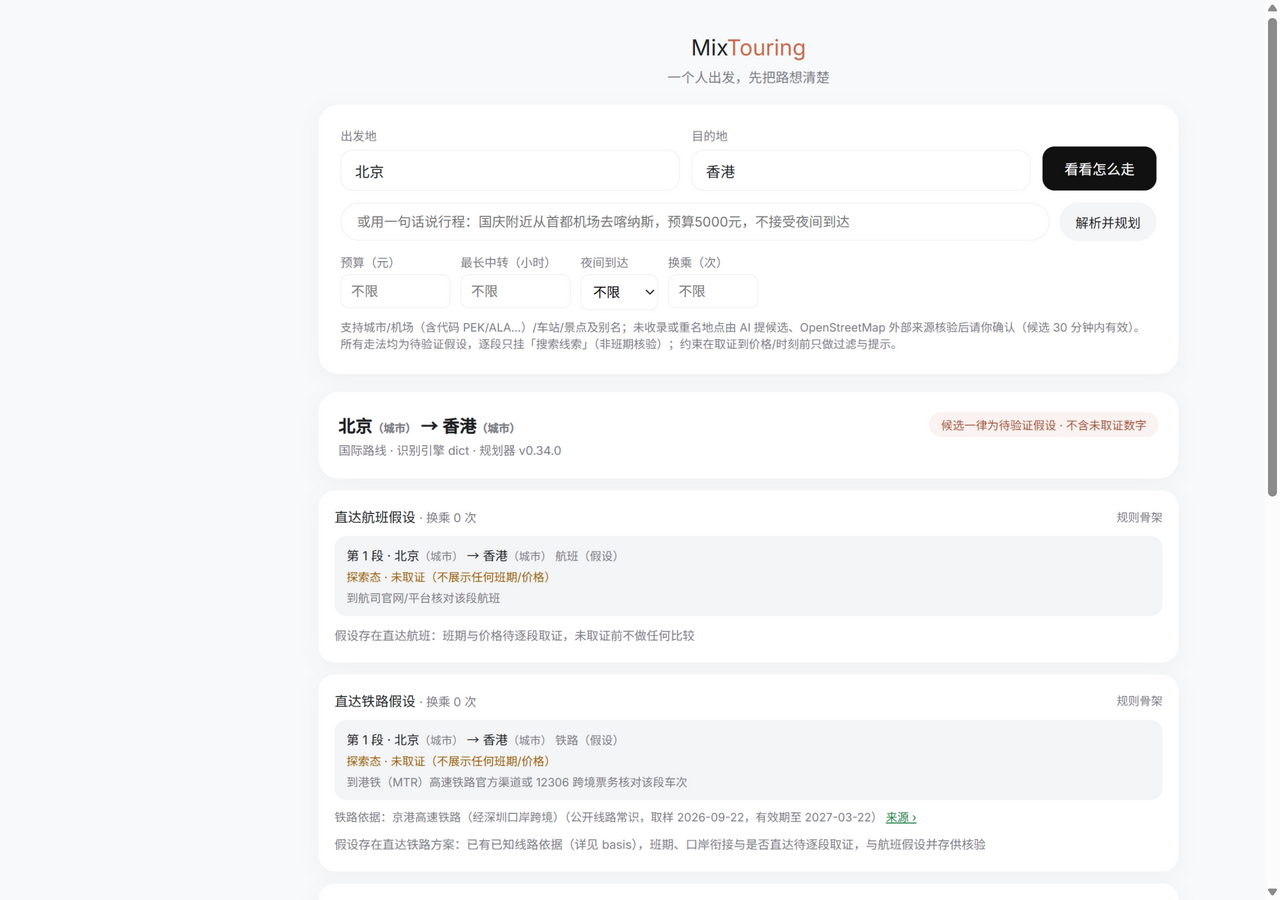
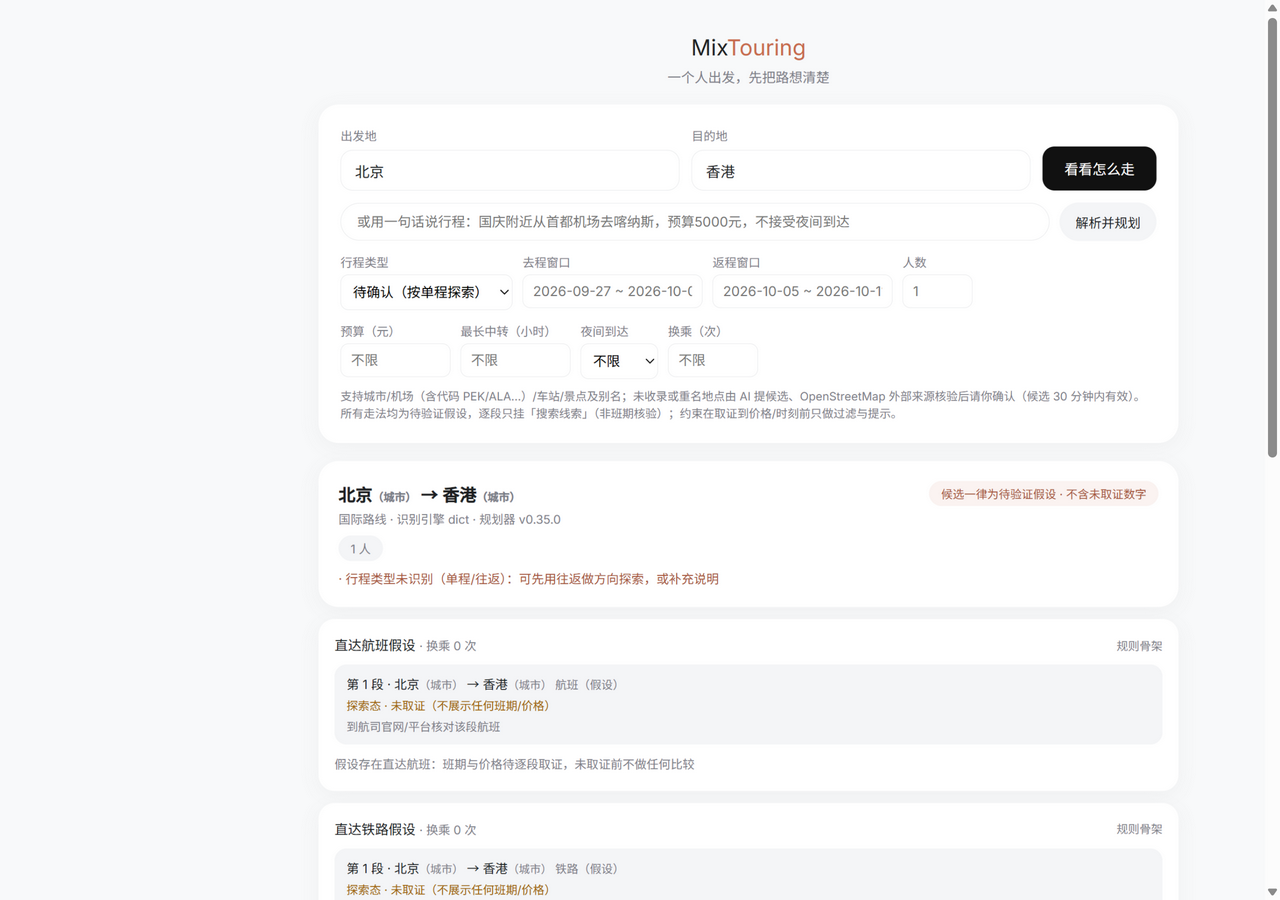
v0.35.0 十轮评审收口修复卡：往返/日期/人数意图恢复（extractIntentFields 复用+返程日期规则+数字人数+显式字段覆盖，样本层改用 intent 不再固定 pending）、重名候选带行政层级 detail 且无默认选中（须显式选择）、走廊证据语义修正（valid_for→review_by 复核期限、K9795 降为历史班期样例分级）

diff --git a/mixtouring-hifi/pages/trip.html b/mixtouring-hifi/pages/trip.html
@@ -64,6 +64,20 @@
         <button id="btnParse" style="background:var(--mixtouring-muted);color:var(--mixtouring-foreground);border:none;border-radius:9999px;padding:10px 16px;font-size:13px;font-family:inherit;cursor:pointer;flex-shrink:0;">解析并规划</button>
       </div>
 
+      <!-- 行程信息（v0.35.0 十轮 P0：往返/日期/人数不回退；字段优先于一句话提取） -->
+      <div style="display:flex;gap:10px;flex-wrap:wrap;margin-top:12px;">
+        <label style="font-size:12px;color:var(--mixtouring-muted-foreground);">行程类型
+          <select id="tvType" style="display:block;margin-top:4px;border:0.5px solid var(--mixtouring-border);border-radius:8px;padding:8px;font-size:13.5px;font-family:inherit;background:#fff;">
+            <option value="">待确认（按单程探索）</option>
+            <option value="round_trip">往返</option>
+            <option value="one_way">单程</option>
+          </select>
+        </label>
+        <label style="font-size:12px;color:var(--mixtouring-muted-foreground);">去程窗口 <input id="tvOut" type="text" placeholder="2026-09-27 ~ 2026-10-03" style="display:block;margin-top:4px;width:180px;box-sizing:border-box;border:0.5px solid var(--mixtouring-border);border-radius:8px;padding:8px 10px;font-size:13.5px;font-family:inherit;" /></label>
+        <label style="font-size:12px;color:var(--mixtouring-muted-foreground);">返程窗口 <input id="tvRet" type="text" placeholder="2026-10-05 ~ 2026-10-11" style="display:block;margin-top:4px;width:180px;box-sizing:border-box;border:0.5px solid var(--mixtouring-border);border-radius:8px;padding:8px 10px;font-size:13.5px;font-family:inherit;" /></label>
+        <label style="font-size:12px;color:var(--mixtouring-muted-foreground);">人数 <input id="tvCount" type="number" min="1" max="9" placeholder="1" style="display:block;margin-top:4px;width:70px;box-sizing:border-box;border:0.5px solid var(--mixtouring-border);border-radius:8px;padding:8px 10px;font-size:13.5px;font-family:inherit;" /></label>
+      </div>
+
       <!-- 约束行（v0.34.0 统一主入口：四类约束随主查询提交；字段优先于一句话表述） -->
       <div style="display:flex;gap:10px;flex-wrap:wrap;margin-top:12px;">
         <label style="font-size:12px;color:var(--mixtouring-muted-foreground);">预算（元） <input id="cnBudget" type="number" min="100" step="100" placeholder="不限" style="display:block;margin-top:4px;width:110px;box-sizing:border-box;border:0.5px solid var(--mixtouring-border);border-radius:8px;padding:8px 10px;font-size:13.5px;font-family:inherit;" /></label>
@@ -116,8 +130,23 @@
       return constraints;
     }
 
+    /* 行程信息字段（v0.35.0 P0：显式字段优先于文本提取，往返/日期/人数经消歧与重新规划不回退） */
+    function collectTravel() {
+      var travel = {};
+      var type = document.getElementById('tvType').value;
+      var out = document.getElementById('tvOut').value.trim();
+      var ret = document.getElementById('tvRet').value.trim();
+      var count = document.getElementById('tvCount').value;
+      if (type) travel.trip_type = type;
+      if (out) travel.outbound_window = out;
+      if (ret) travel.return_window = ret;
+      if (count !== '') travel.traveler_count = Number(count);
+      return travel;
+    }
+
     function requestPlan(confirmed) {
       var body = Object.assign({}, lastRequest, confirmed && Object.keys(confirmed).length ? { confirmed_places: confirmed } : {});
+      body.travel = collectTravel();
       resultArea.innerHTML = '<div style="text-align:center;padding:30px;color:var(--mixtouring-muted-foreground);font-size:13.5px;">正在规划（含地点识别与外部来源核验，稍等）…</div>';
       post('/api/anywhere/plan', body).then(function (res) {
         if (res.code !== 0) { resultArea.innerHTML = ''; MT.toast(res.msg || '规划失败'); return; }
@@ -152,14 +181,16 @@
         var list = (data.place_candidates && data.place_candidates[ep]) || [];
         if (!list.length) return;
         html += '<div style="margin-top:12px;padding:14px 16px;border-radius:14px;background:rgba(30,127,69,0.06);border:0.5px solid rgba(30,127,69,0.25);">';
-        html += '<div style="font-size:13px;">新地点待确认——' + (ep === 'origin' ? '出发地' : '目的地') + '（候选均经 OpenStreetMap 核验，重名请选对；30 分钟内有效）</div>';
-        list.forEach(function (c, i) {
+        html += '<div style="font-size:13px;">新地点待确认——' + (ep === 'origin' ? '出发地' : '目的地') + '（候选均经 OpenStreetMap 核验；重名请按行政层级与来源选对；30 分钟内有效）</div>';
+        list.forEach(function (c) {
           html += '<label style="display:flex;align-items:flex-start;gap:8px;margin-top:10px;cursor:pointer;">' +
-            '<input type="radio" name="awc-' + ep + '" value="' + MT.esc(c.candidate_id || '') + '"' + (i === 0 ? ' checked' : '') + ' style="margin-top:3px;" />' +
+            '<input type="radio" name="awc-' + ep + '" value="' + MT.esc(c.candidate_id || '') + '" style="margin-top:3px;" />' +
             '<span style="font-size:12.5px;line-height:1.6;">' + placeLabel(c.name, c.kind) +
             ' <span style="color:var(--mixtouring-muted-foreground);">· ' + MT.esc(c.country || '') + (c.country_name ? '（' + MT.esc(c.country_name) + '）' : '') + '</span>' +
             (c.source_url && /^https:/.test(c.source_url) ? ' <a href="' + MT.esc(c.source_url) + '" target="_blank" rel="noopener" style="font-size:11.5px;color:#1E7F45;">来源 ›</a>' : '') +
-            '<br><span style="font-size:11.5px;color:var(--mixtouring-muted-foreground);">' + MT.esc(c.note || '') + '</span></span></label>';
+            (c.detail ? '<br><span style="font-size:11.5px;color:var(--mixtouring-muted-foreground);">' + MT.esc(c.detail) + '</span>' : '') +
+            (!c.detail && c.note ? '<br><span style="font-size:11.5px;color:var(--mixtouring-muted-foreground);">' + MT.esc(c.note) + '</span>' : '') +
+            '</span></label>';
         });
         html += '</div>';
       });
@@ -185,6 +216,19 @@
         html += '<div style="display:flex;gap:8px;flex-wrap:wrap;margin-top:10px;">' +
           data.intent.constraint_chips.map(function (c) {
             return '<span style="font-size:12px;padding:4px 12px;border-radius:9999px;background:rgba(30,127,69,0.08);color:#1E7F45;">' + MT.esc(c.label) + '</span>';
+          }).join('') + '</div>';
+      }
+      /* 行程意图摘要（v0.35.0 P0：往返/日期/人数可见且不回退） */
+      var tvLabels = [];
+      if (data.intent.trip_type === 'round_trip') tvLabels.push('往返');
+      else if (data.intent.trip_type === 'one_way') tvLabels.push('单程');
+      if (data.intent.outbound_window) tvLabels.push('去程 ' + data.intent.outbound_window);
+      if (data.intent.return_window) tvLabels.push('返程 ' + data.intent.return_window);
+      if (data.intent.traveler_count != null) tvLabels.push(data.intent.traveler_count + ' 人');
+      if (tvLabels.length) {
+        html += '<div style="display:flex;gap:8px;flex-wrap:wrap;margin-top:8px;">' +
+          tvLabels.map(function (l) {
+            return '<span style="font-size:12px;padding:4px 12px;border-radius:9999px;background:var(--mixtouring-muted);color:var(--mixtouring-muted-foreground);">' + MT.esc(l) + '</span>';
           }).join('') + '</div>';
       }
       (data.needs_confirmation || []).forEach(function (n) {
@@ -222,7 +266,7 @@
         var src = c.basis && c.basis.rule === 'known-corridor' && c.basis.source_url;
         if (src) {
           html += '<div style="margin-top:8px;font-size:11.5px;color:var(--mixtouring-muted-foreground);">铁路依据：' + MT.esc(c.basis.corridor || '') +
-            '（' + MT.esc(c.basis.evidence || '') + '，取样 ' + MT.esc(String(c.basis.sampled_at || '').slice(0, 10)) + '，有效期至 ' + MT.esc(c.basis.valid_for || '') + '）' +
+            '（' + MT.esc(c.basis.evidence || '') + '；取样 ' + MT.esc(String(c.basis.sampled_at || '').slice(0, 10)) + '，来源复核期限 ' + MT.esc(c.basis.review_by || '') + '——复核期限非运营有效期，命中仍只是待验证假设）' +
             ' <a href="' + MT.esc(src) + '" target="_blank" rel="noopener" style="color:#1E7F45;">来源 ›</a></div>';
         }
         html += '<div style="margin-top:10px;font-size:12px;color:var(--mixtouring-muted-foreground);line-height:1.7;">' + MT.esc(c.explanation) + '</div>';
@@ -256,14 +300,19 @@
 
       var btnConfirm = document.getElementById('btnAwConfirm');
       if (btnConfirm) btnConfirm.addEventListener('click', function () {
-        var confirmed = {};
+        var confirmed = {}, needPick = false;
         ['origin', 'destination'].forEach(function (ep) {
           var list = (data.place_candidates && data.place_candidates[ep]) || [];
           if (!list.length) return;
           var sel = document.querySelector('input[name="awc-' + ep + '"]:checked');
-          if (!sel || !sel.value) { MT.toast('候选标识缺失，请重新规划'); return; }
+          if (!sel || !sel.value) { needPick = true; return; } /* 无默认选中：必须显式选择 */
           confirmed[ep] = sel.value; /* 只回传服务端签发的 candidate_id */
         });
+        ['origin', 'destination'].forEach(function (ep) {
+          var list = (data.place_candidates && data.place_candidates[ep]) || [];
+          if (list.length && !confirmed[ep]) needPick = true;
+        });
+        if (needPick) { MT.toast('重名候选请先选择一个再确认'); return; }
         if (!confirmed.origin && !confirmed.destination) { MT.toast('没有可确认的候选'); return; }
         requestPlan(confirmed);
       });
@@ -302,7 +351,7 @@
           '<a href="search.html?' + new URLSearchParams({ from: o.name, to: d.name }).toString() + '" style="color:#1E7F45;">查看国内历史样本库 ›</a></div>';
         return;
       }
-      post('/api/trip/search', { origin: o.name, destination: d.name, trip_type: 'pending', traveler_count: 1, currency: 'CNY' }).then(function (res) {
+      post('/api/trip/search', { origin: o.name, destination: d.name, trip_type: data.intent.trip_type || 'pending', outbound_window: data.intent.outbound_window || null, return_window: data.intent.return_window || null, traveler_count: data.intent.traveler_count || 1, currency: 'CNY' }).then(function (res) {
         if (res.code !== 0 || !res.data || !res.data.strategies.length) return; /* 无 fixture：静默不加层（上文假设层已完整） */
         renderSample(res.data);
       }).catch(function () { /* 样本层失败不影响假设层 */ });

diff --git a/工作记录.md b/工作记录.md
@@ -14,7 +14,22 @@
 
 ## 1. 版本演进记录
 
-### v0.34.0 · 2026-09-22 · G2.5 主入口交互卡：任意地点规划接回统一主入口（单一状态机/内联消歧/结果分层/已取证样本层）+ 走廊结构化来源治理（当前版本）
+### v0.35.0 · 2026-09-22 · 十轮评审收口修复卡：往返意图不回退 + 重名候选可区分 + 走廊证据语义修正（当前版本）
+
+**背景**：Issue #5 对 db2bc5c（v0.34.0）评审「需修复，暂不合并」：P0 统一入口删掉了行程类型/去返日期/人数，「国庆从北京去阿拉木图，10 月 7 日回来」只保留起终点、样本查询固定 pending 只见去程；P1 两个英国剑桥候选名称/国家/说明完全相同且默认选中第一项（误确认风险）；P1 K9795 在 G0 属历史参考却被走廊标为结构化班期证据，项目复核周期被显示成「有效期至」易读成运营有效期；P2 缺往返/日期/人数经消歧与重新规划后保留的测试。已验收：统一视觉入口、candidate_id 信任边界、三层结果、降级提示、走廊过期降级。
+
+**修复**：
+1. **P0 往返意图**：服务端新增 `buildTravelIntent`——复用 trip-service `extractIntentFields`（往返/中文数词人数/国庆宽窗），新增 `extractReturnDate`（「10月7日回来」→ 单日窗，年份代码推算禁心算）、数字人数补遗（「2个人」，extractIntentFields 只覆盖中文数词）；intent 增加 trip_type/outbound_window/return_window/traveler_count，往返缺返程进 needs_confirmation；UI 显式字段（`travel`）白名单化优先于文本提取。trip.html 恢复行程信息行（类型/去程窗口/返程窗口/人数）随每次请求提交（经消歧与重新规划不回退）；结果页显示意图摘要 chips；**样本层改用 intent 查询**（trip_type/双窗口/人数，不再固定 pending/1——北京⇄阿拉木图往返实测 KC267 返程段出现，回放 09）。
+2. **P1 重名区分**：开放解析候选带 `detail`（OSM display_name 完整行政层级）与 osm_type/osm_id；确认卡逐候选展示 detail，不再默认选中——未选择时确认被 toast 拦截（「重名候选请先选择一个再确认」），显式选择后才提交（回放 10/11）。
+3. **P1 语义修正**：走廊 `valid_for` → `review_by`（项目来源复核期限），铁路卡来源行文案改「来源复核期限……复核期限非运营有效期，命中仍只是待验证假设」；K9795 走廊 evidence_grade 由 structured_schedule_sample 降为 **historical_schedule_sample**（历史班期样例，项目样本口径），分级枚举同步 _meta——命中走廊仍只支撑 candidate_hypothesis。
+4. 版本 anywhere v0.35.0。
+
+**验证**：check-anywhere **96 项断言**全绿（新增：评审原句往返提取 round_trip/假期宽窗/10-07 返程、消歧确认后意图保留（2 人）、显式字段覆盖、非法行程字段丢弃、重名 detail+稳定标识、走廊 review_by schema 与分级、K9795 历史样例分级）；check-trip/check-pages/check-geo 全绿；verify.mjs 87 项全过（v0.35.0）。**回放重拍**：09 一句话往返→样本层 KC267 返程段 ✓、10 重名 detail+无默认选中 ✓、11 无选择拦截+显式选 US 确认 ✓、06 走廊卡复核期限文案 ✓（pipeline/out/e2e-g25-main/）。
+
+**影响范围**：server/lib/anywhere.mjs（buildTravelIntent/extractReturnDate/数字人数/detail/review_by）、pipeline/data/rail-corridors.json（语义修正）、mixtouring-hifi/pages/trip.html（行程信息行/意图摘要/确认卡 detail 与显式选择/样本层 intent/文案）、server/lib/versions.mjs、server/check-anywhere.mjs、server/check-trip.mjs、server/verify.mjs、工作记录.md。
+
+---
+### v0.34.0 · 2026-09-22 · G2.5 主入口交互卡：任意地点规划接回统一主入口（单一状态机/内联消歧/结果分层/已取证样本层）+ 走廊结构化来源治理
 
 **背景**：九轮评审「有条件通过」（PR #9 已合并 d3ac0c3），允许启动 G2.5 主入口交互卡，验收六项：一个主入口（两字段与一句话同一状态机，用户无需理解 G2/G2.5 区别）；内联地点消歧（确认后保留原输入与约束，过期明确提示重新核验）；结果三层不混同（正向 basis 候选卡 / source_lead 线索 / 陆路探索，不凑固定卡数）；能力降级分别提示（LLM/OSM/Photon/web_search，不把暂无数据写成没有路线）；交互回放覆盖七类场景×双端；边界保持不进 G3。P2 走廊数据契约按评审建议同步补进本卡。
 
